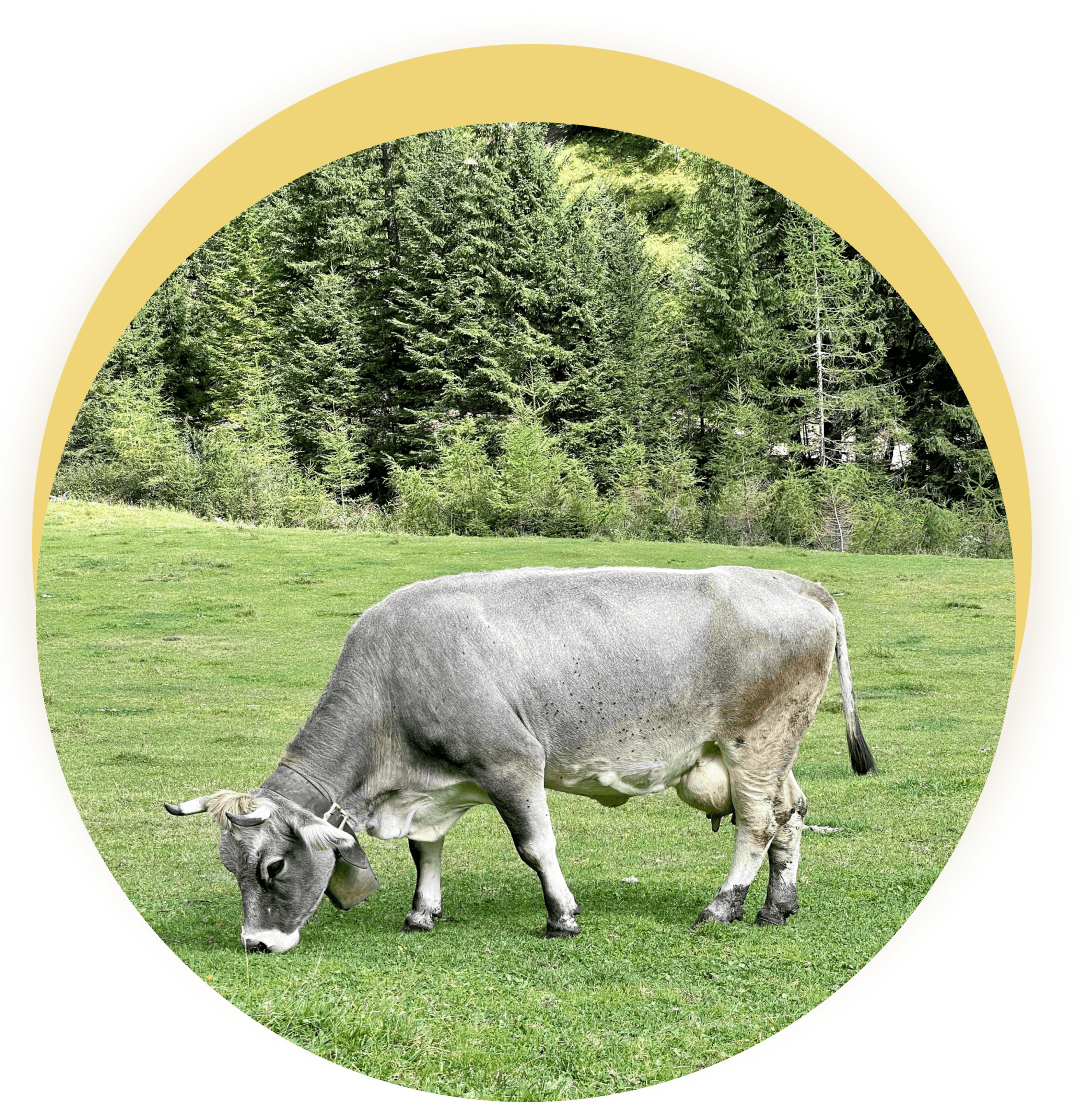
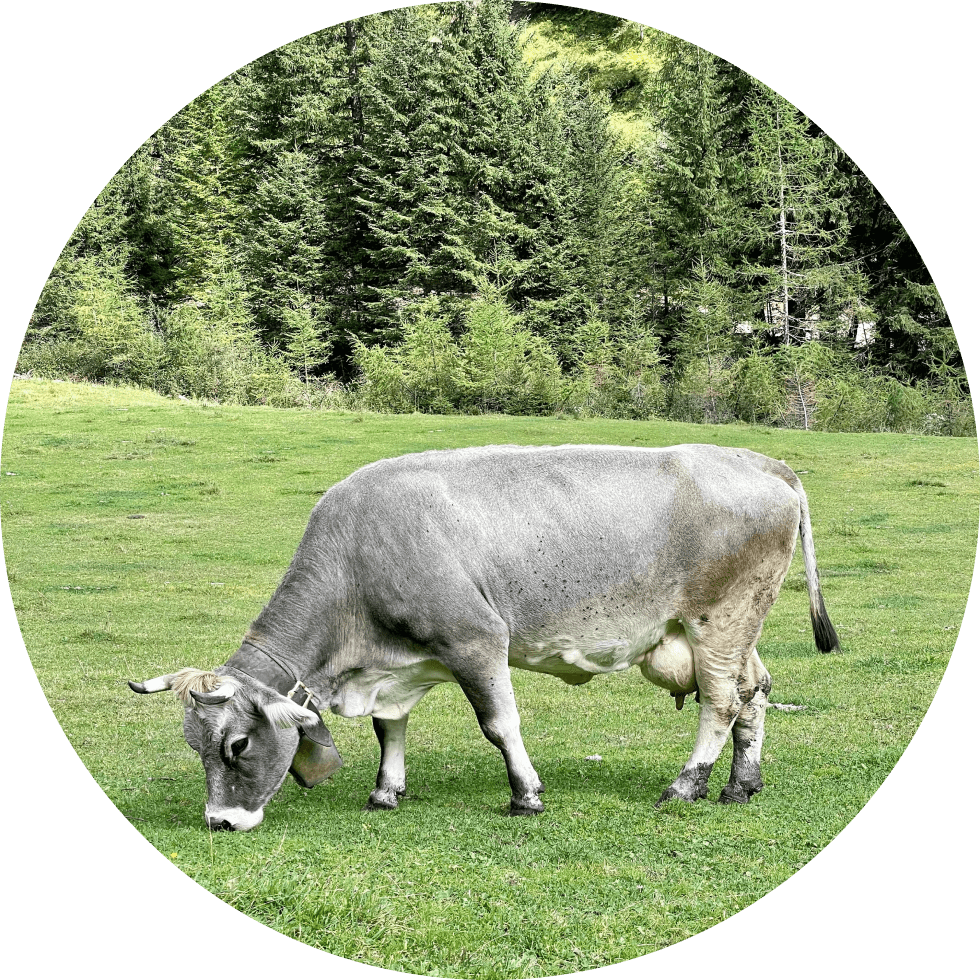
add adaptive styling to about section

diff --git a/src/sass/components/_about.scss b/src/sass/components/_about.scss
@@ -1,6 +1,10 @@
 .about.section {
   font-family: $font-montserrat;
   background-color: $bg-color;
+
+  @media screen and (max-width: $desktop) {
+    padding-bottom: 40px;
+  }
 }
 
 .section__label {
@@ -22,36 +26,82 @@
   font-size: 30px;
   line-height: 1.26;
   letter-spacing: 0.04em;
-  width: 200px;
-  //   height: 117px;
   margin-bottom: 32px;
   color: $primary-color;
+  @media screen and(max-width:$mobile) {
+    width: 200px;
+  }
 }
 
-.about__text-wrapper {
-  @media screen and (max-width: 767px) {
-    margin-top: 372px;
-  }
-
-  @media screen and (min-width: 768px) and (max-width: 1199px) {
-    margin-top: 79px;
+.about__block {
+  @media screen and (min-width: 768px) {
+    display: flex;
+    justify-content: center;
+    align-items: center;
+    column-gap: 35px;
   }
 
   @media screen and (min-width: 1200px) {
-    margin-top: 172px;
+    column-gap: 100px;
+    
+  }
+}
+
+.about__text-wrapper {
+  @media screen and (min-width: $mobile) and (max-width: $tablet) {
+    margin-top: 85px;
+  }
+
+  @media screen and (min-width: $tablet) and (max-width: $desktop) {
+    // margin-top: 79px;
+  }
+
+  @media screen and (min-width: $desktop) {
+  }
+
+  @media screen and (max-width: $mobile) {
+    margin-top: 85px;
   }
 }
 
 .about__text {
-  font-family: 'Montserrat';
-  font-style: normal;
   font-weight: 400;
   font-size: 12px;
   line-height: 1.75;
   letter-spacing: 0.04em;
   color: $primary-color;
-  width: 220px;
-  margin-right: auto;
+
+  //   margin-right: auto;
+
+  @media screen and (min-width: 320px) and (max-width: 330px) {
+    max-width: 220px;
+  }
+
+  @media screen and (max-width: $mobile) {
+    max-width: 400px;
+  }
+  @media screen and (min-width: $tablet) and (max-width: $desktop) {
+    max-width: 334px;
+    display: block;
+  }
+  &--hidden {
+    @media screen and (max-width: $tablet) {
+      position: absolute;
+      white-space: nowrap;
+      width: 1px;
+      height: 1px;
+      overflow: hidden;
+      border: 0;
+      padding: 0;
+      clip: rect(0 0 0 0);
+      clip-path: inset(50%);
+      margin: -1px;
+    }
+  }
+
+  @media screen and (min-width: 1200px) {
+    max-width: 463px;
+  }
 }
 
 .about__text.visually-hidden {
@@ -59,48 +109,73 @@
 }
 
 .about__wrapper {
-  margin-bottom: 300px;
   position: relative;
 }
 
 .about__wrapper::before {
-  position: absolute;
-  //   right: 0;
-  //   top: 21.81;
+  top: 0;
+  left: 50%;
+  transform: translateX(-50%);
+  position: relative;
 
-  //   display: block;
+  display: block;
+  content: '';
+  background-repeat: no-repeat;
+  background-position: center;
+  width: 278px;
+  height: 278px;
+  background-size: 278px 278px;
+  border-radius: 50%;
+
+  background-color: rgb(76, 216, 44);
+
+  @media screen and (min-width: $tablet) and (max-width: $desktop) {
+    width: 330px;
+    height: 330px;
+  }
+
+  @media screen and (min-width: 1200px) {
+    width: 490px;
+    height: 490px;
+  }
+}
+
+.about__wrapper::after {
+  position: absolute;
+  top: 20px;
+  left: 50%;
+  transform: translateX(-50%);
+
   content: '';
   background-repeat: no-repeat;
   background-size: cover;
   background-position: center;
-  //   min-width: 278.19px;
-  //   min-height: 278.19px;
 
   border-radius: 50%;
 
-  //   background-color: rgb(76, 216, 44);
-
-  @media screen and(max-width:767px) {
+  @media screen and(max-width: $tablet) {
     background-image: url(../images/cow-mob-1x.png);
     // max-width: 480px;
-    min-width: 278.19px;
-    min-height: 278.19px;
-    top: -360px;
-    left: 0;
+    width: 278.19px;
+    height: 278.19px;
+    background-size: 278.19px 278.19px;
+
+    transform: translateX(-50%);
 
     @media screen and (min-device-pixel-ratio: 2),
       screen and (min-resolution: 192dpi),
       screen and (min-resolution: 2dppx) {
       background-image: url(../images/cow-mob-2x.png);
-      min-width: 278.19px;
-      min-height: 278.19px;
-      top: -370px;
-      left: 0;
+      width: 278.19px;
+      height: 278.19px;
     }
   }
 
-  @media screen and (min-width: 768px) and (max-width: 1199px) {
+  @media screen and (min-width: $tablet) and (max-width: $desktop) {
     background-image: url(../images/cow-tablet-1x.png);
+    width: 330px;
+    height: 330px;
+    background-size: 330px 330px;
 
     @media screen and(min-device-pixel-ratio: 2),
       screen and (min-resolution: 192dpi),
@@ -108,9 +183,12 @@
       background-image: url(../images/cow-tablet-2x.png);
     }
   }
-  @media screen and(min-width: 1200px) {
-    padding: 200px 0;
+  @media screen and(min-width: $desktop) {
     background-image: url(../images/cow-desktop-1x.png);
+
+    width: 490px;
+    height: 490px;
+    background-size: 490px 490px;
 
     @media screen and(min-device-pixel-ratio: 2),
       screen and (min-resolution: 192dpi),

diff --git a/src/index.html b/src/index.html
@@ -5,26 +5,30 @@
     <meta name="viewport" content="width=device-width, initial-scale=1.0" />
     <title>Ice cream</title>
 
-    <link rel="preconnect" href="https://fonts.googleapis.com">
-    <link rel="preconnect" href="https://fonts.gstatic.com" crossorigin>
-    <link href="https://fonts.googleapis.com/css2?family=Montserrat:wght@400;500;600;700;800;900&family=Seymour+One&display=swap" rel="stylesheet">    <link rel="stylesheet" href="./sass/index.scss" />
+    <link rel="preconnect" href="https://fonts.googleapis.com" />
+    <link rel="preconnect" href="https://fonts.gstatic.com" crossorigin />
+    <link
+      href="https://fonts.googleapis.com/css2?family=Montserrat:wght@400;500;600;700;800;900&family=Seymour+One&display=swap"
+      rel="stylesheet"
+    />
+    <link rel="stylesheet" href="./sass/index.scss" />
     <script type="module" src="./index.js"></script>
   </head>
   <body>
     <!-- ❗❗❗ Add partials like so for every page -->
-    <include src="./partials/header.html"></include>
-    <include src="./partials/hero.html"></include>
+    <!-- <include src="./partials/header.html"></include> -->
+    <!-- <include src="./partials/hero.html"></include> -->
     <main>
-      <include src="./partials/products.html"></include>
+      <!-- <include src="./partials/products.html"></include> -->
       <include src="./partials/about.html"></include>
       <include src="./partials/advantages.html"></include>
       <div class="wraper">
-        <include src="./partials/gallery.html"></include>
-        <include src="./partials/customer-reviews.html"></include>
+        <!-- <include src="./partials/gallery.html"></include> -->
+        <!-- <include src="./partials/customer-reviews.html"></include> -->
       </div>
-      <include src="./partials/contacts.html"></include>
+      <!-- <include src="./partials/contacts.html"></include> -->
     </main>
-    <include src="./partials/footer.html"></include>
+    <!-- <include src="./partials/footer.html"></include> -->
     <!-- <include src="./partials/example.html"></include> -->
   </body>
 </html>

diff --git a/src/partials/about.html b/src/partials/about.html
@@ -4,9 +4,10 @@
       <p class="section__label">Tradition and love</p>
       <h2 class="section__title">How it's made?</h2>
     </div>
+    <div class="about__block">
 
-    <div class="about__wrapper">
-      <div class="about__text-wrapper">
+    <div class="about__wrapper"></div>
+    <div class="about__text-wrapper">
         <p class="about__text">
           Ice is a place where you will become not only a little happier, but
           also healthier. Health is the main value for us, and we follow it when
@@ -20,12 +21,12 @@
           of coffee and 23 milkshakes.
         </p>
 
-        <p class="about__text visually-hidden">
+        <p class="about__text about__text--hidden">
           This is enough to choose ice cream and coffee for any mood!
         </p>
 
-        <button class="about__button" type="button">Read more</button>
+        <button class="about__button" type="button">Read more      &#10095</button>
       </div>
-    </div>
+      </div>
   </div>
 </section>
